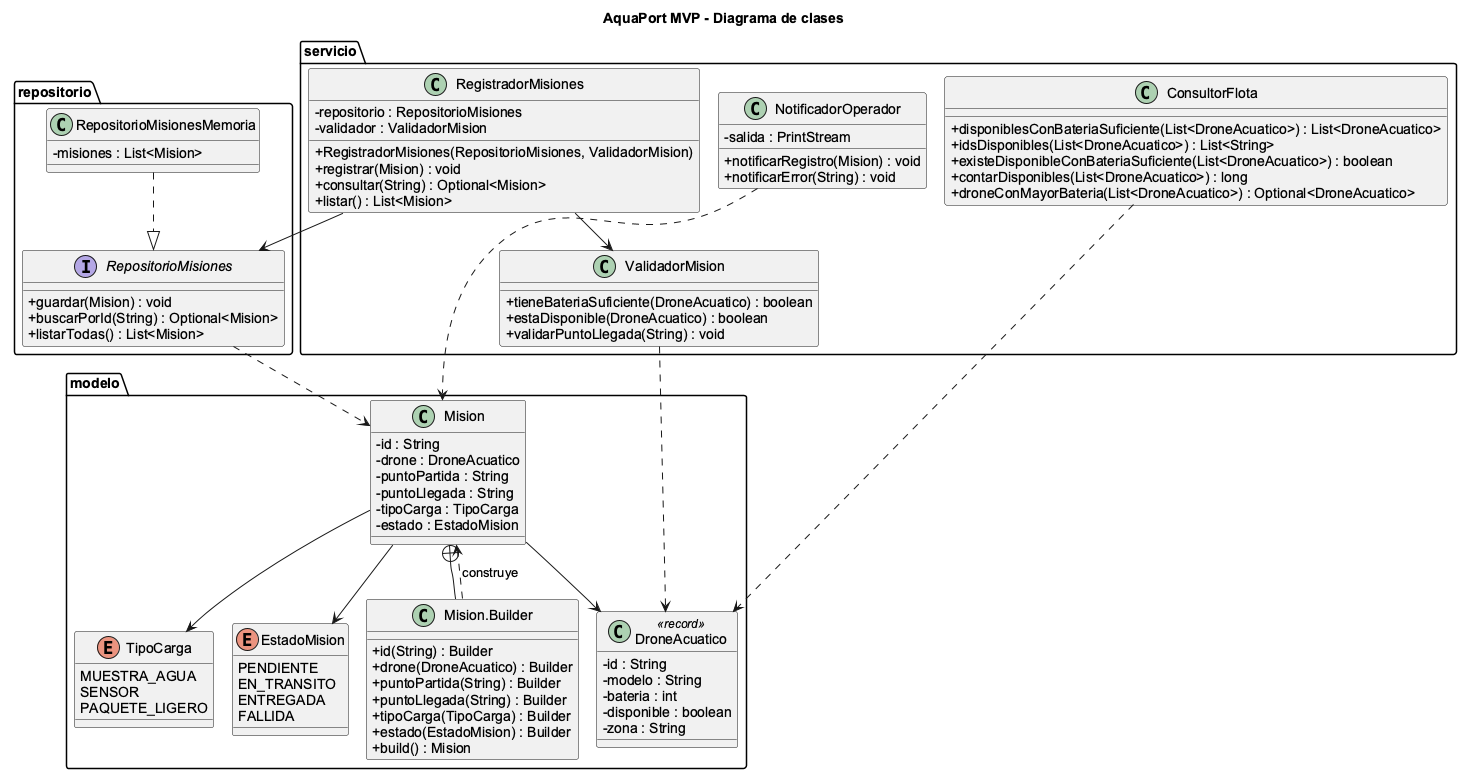
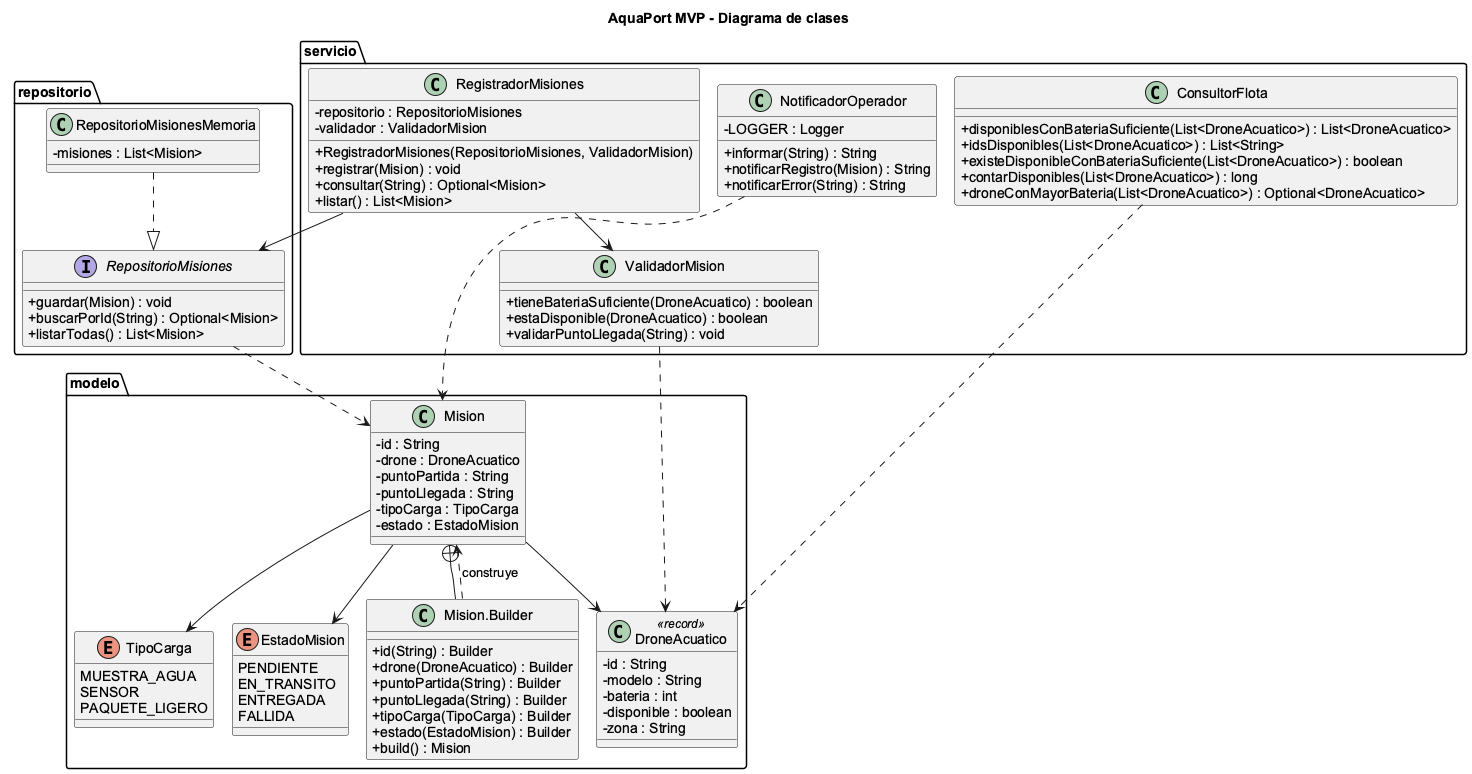
docs: actualizar diagrama de clases y salida del programa tras usar Logger

diff --git a/docs/01-streams.md b/docs/01-streams.md
@@ -12,14 +12,16 @@ Las cinco consultas están en `ConsultorFlota`. Cada método recibe la flota com
 
 ## Salida del programa
 
+Los resultados se muestran por medio de `NotificadorOperador`, que usa `java.util.logging.Logger`:
+
 ```
-Disponibles con batería >= 35%: [DroneAcuatico[id=AR-01, modelo=Aqua-Ranger 100, bateria=92, disponible=true, zona=Embalse Norte], DroneAcuatico[id=AR-04, modelo=Aqua-Ranger 100, bateria=73, disponible=true, zona=Punto Ribereño Este], DroneAcuatico[id=AR-02, modelo=Aqua-Ranger 100, bateria=45, disponible=true, zona=Canal Central]]
-IDs disponibles: [AR-01, AR-02, AR-04]
-¿Existe disponible con batería >= 35%?: true
-Cantidad de disponibles: 3
-Drone con mayor batería: DroneAcuatico[id=AR-01, modelo=Aqua-Ranger 100, bateria=92, disponible=true, zona=Embalse Norte]
-Misión M-001 registrada con el drone AR-01 hacia Laboratorio Hídrico
-Error: El drone AR-03 no está disponible
+INFO: Disponibles con batería >= 35%: [DroneAcuatico[id=AR-01, modelo=Aqua-Ranger 100, bateria=92, disponible=true, zona=Embalse Norte], DroneAcuatico[id=AR-04, modelo=Aqua-Ranger 100, bateria=73, disponible=true, zona=Punto Ribereño Este], DroneAcuatico[id=AR-02, modelo=Aqua-Ranger 100, bateria=45, disponible=true, zona=Canal Central]]
+INFO: IDs disponibles: [AR-01, AR-02, AR-04]
+INFO: ¿Existe disponible con batería >= 35%?: true
+INFO: Cantidad de disponibles: 3
+INFO: Drone con mayor batería: DroneAcuatico[id=AR-01, modelo=Aqua-Ranger 100, bateria=92, disponible=true, zona=Embalse Norte]
+INFO: Misión M-001 registrada con el drone AR-01 hacia Laboratorio Hídrico
+INFO: Error: El drone AR-03 no está disponible
 ```
 
 Para ejecutarlo:
